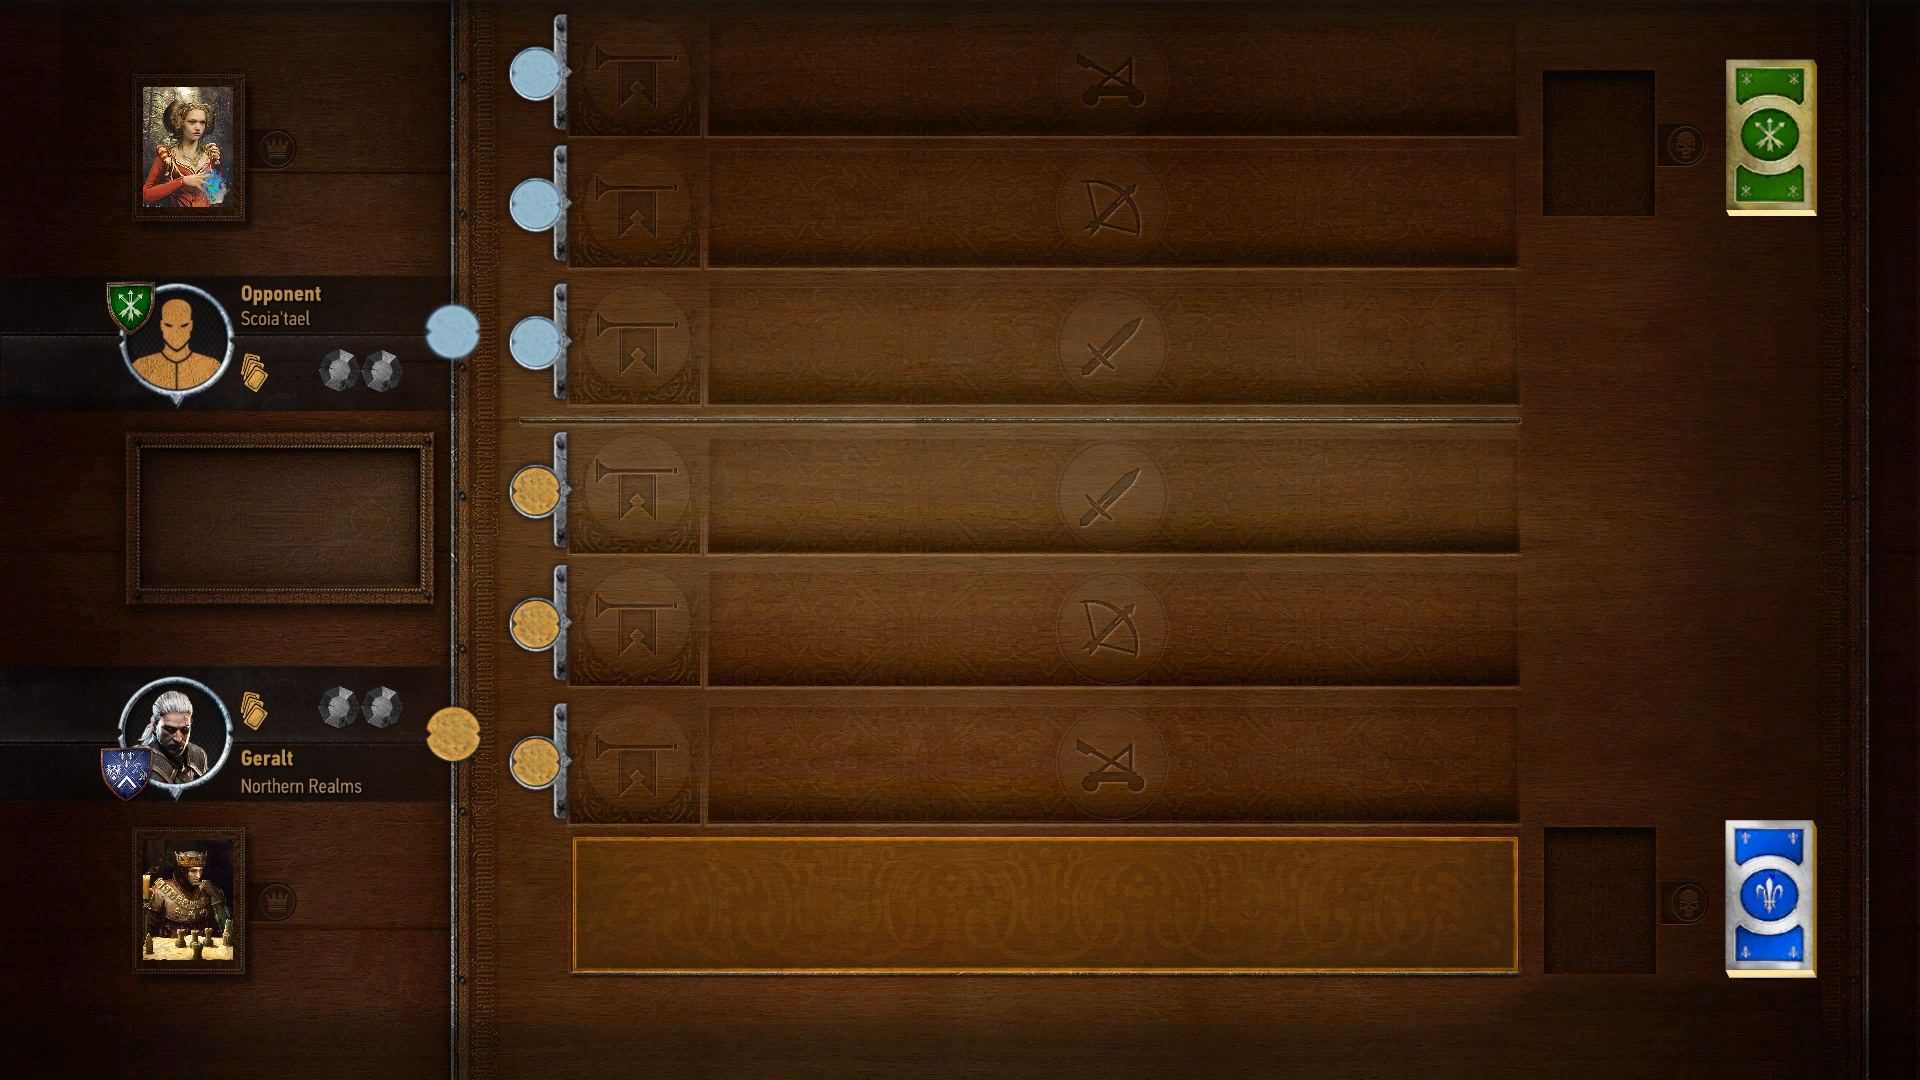
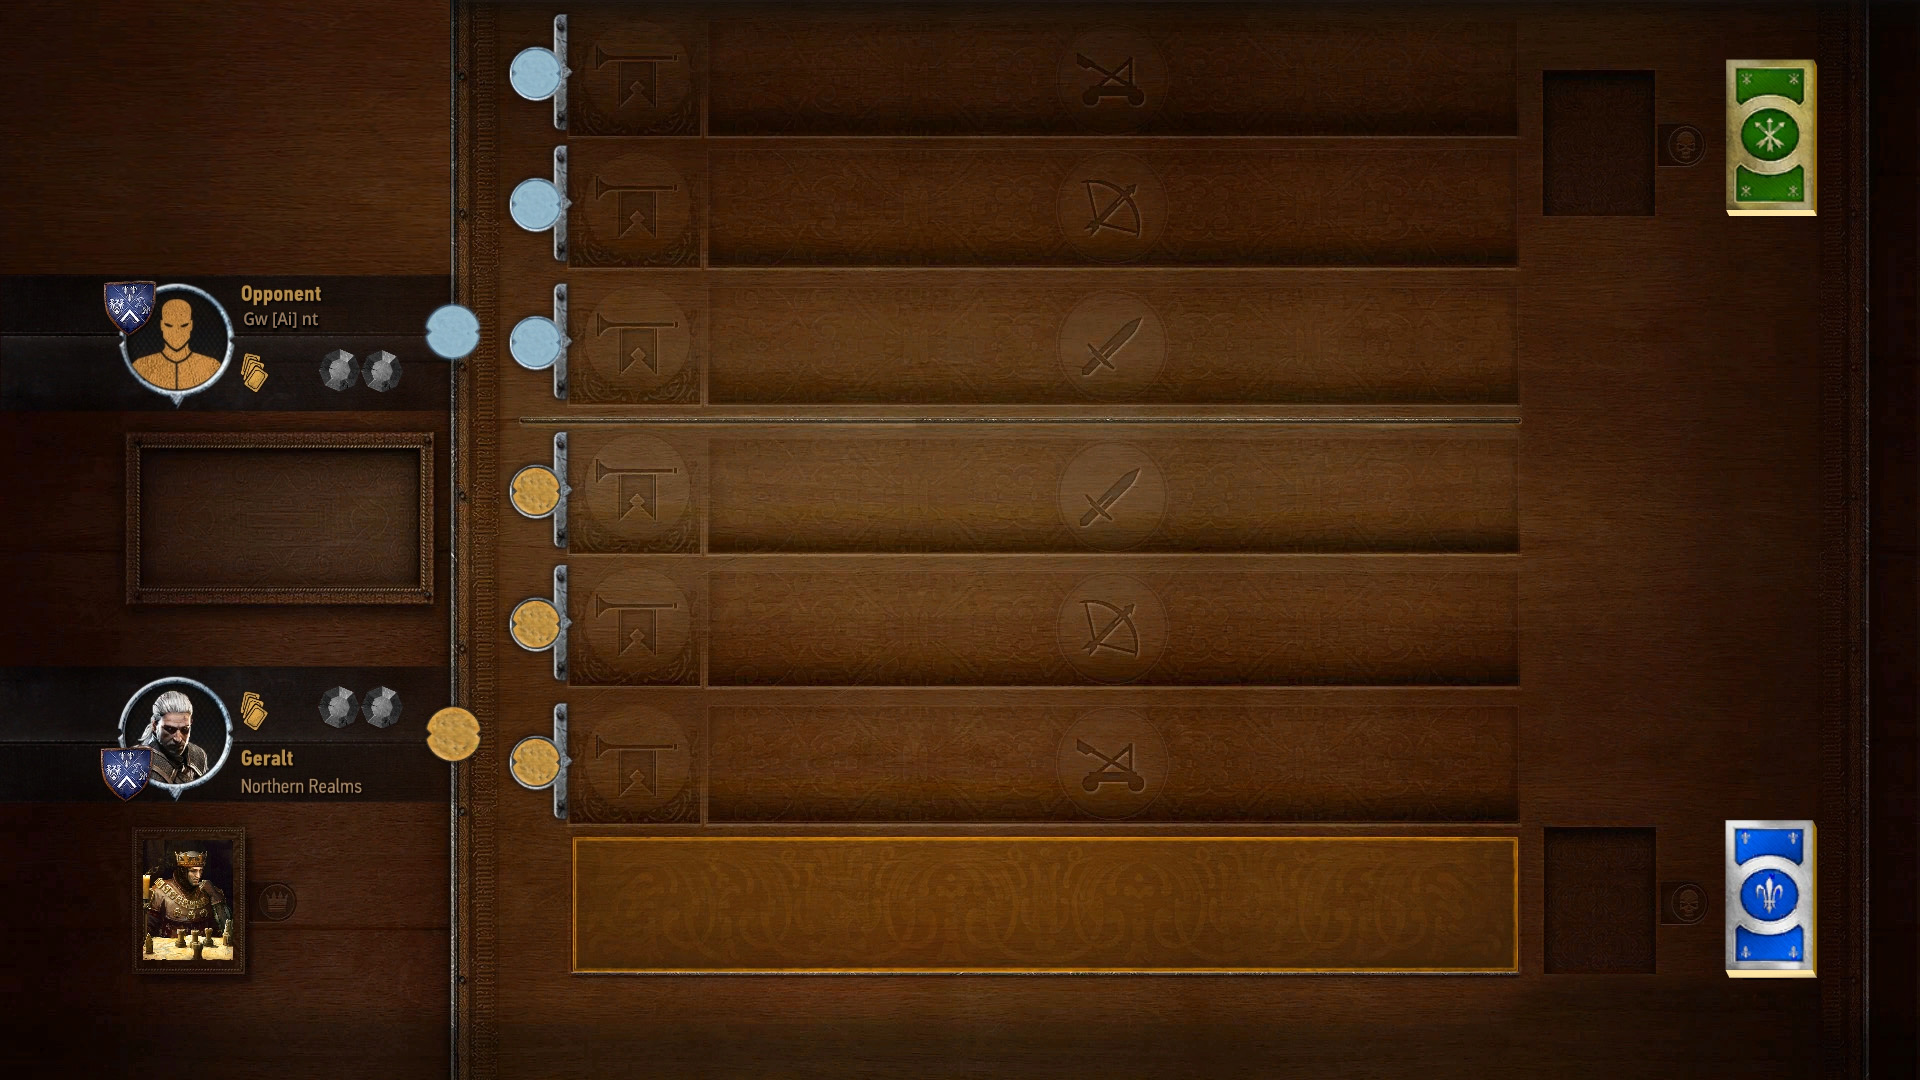
copyright, updated notifications

diff --git a/web/src/services/GameService.js b/web/src/services/GameService.js
@@ -18,18 +18,20 @@ const parseGame = (game) => {
     });
     store.dispatch('setPlayerHand', playerCards);
 
-    let currPlayer = '';
+    let currPlayer = '', plural = '';
     switch (game.current_player) {
         default:
         case 0:
-            currPlayer = 'Player';
+            currPlayer = 'You';
+            plural = 'r';
             break;
         case 1:
-            currPlayer = 'Gwent.AI';
+            currPlayer = 'Gw[Ai]nt';
+            plural = '\'s';
             break;
     }
 
-    return currPlayer;
+    return { currPlayer, plural };
 };
 
 const GameService = {
@@ -37,16 +39,17 @@ const GameService = {
         return DataService.startGame().then(response => {
             const game = response.data;
 
-            const currPlayer = parseGame(game);
+            const info = parseGame(game);
             store.dispatch('setGameId', game.id);
 
-            return NotificationService.setNotification(currPlayer + ' will go first').then(() => {
+            return NotificationService.setNotification(info.currPlayer + ' will go first').then(() => {
                 if (game.current_player === 1) {
                     return GameService.aiTurn().then(_response => {
                         const game = _response.data;
-                        const currPlayer = parseGame(game);
+                        const info = parseGame(game);
+                        const player = info.currPlayer + '' + info.plural;
 
-                        store.dispatch('setNotification', currPlayer + '\'s turn');
+                        return NotificationService.setNotification(player + ' turn');
                     });
                 }
             });
@@ -60,14 +63,16 @@ const GameService = {
 
         return DataService.playCard(gameId, cardId).then(response => {
             const game = response.data;
-            const currPlayer = parseGame(game);
+            const info = parseGame(game);
+            const player = info.currPlayer + '' + info.plural;
 
-            return NotificationService.setNotification(currPlayer + '\'s turn').then(() => {
+            return NotificationService.setNotification(player + ' turn').then(() => {
                 GameService.aiTurn().then(_response => {
                     const game = _response.data;
-                    const currPlayer = parseGame(game);
+                    const info = parseGame(game);
+                    const player = info.currPlayer + '' + info.plural;
 
-                    store.dispatch('setNotification', currPlayer + '\'s turn');
+                    return NotificationService.setNotification(player + ' turn');
                 });
             });
         }).catch(err => {
@@ -80,11 +85,10 @@ const GameService = {
 
         return DataService.aiTurn(gameId).then(response => {
             const game = response.data;
-            const currPlayer = parseGame(game);
+            const info = parseGame(game);
+            const player = info.currPlayer + '' + info.plural;
 
-            return NotificationService.setNotification(currPlayer + '\'s turn').then(() => {
-
-            });
+            return NotificationService.setNotification(player + ' turn');
         }).catch(err => {
             console.log(err);
         });

diff --git a/web/src/components/Copyright.vue b/web/src/components/Copyright.vue
@@ -1,0 +1,43 @@
+<template>
+    <div class="copyright">
+        <p>CD PROJEKT®, The Witcher®, GWENT® are registered trademarks of CD PROJEKT Capital Group. GWENT game © CD PROJEKT S.A. All rights reserved. Developed by CD PROJEKT S.A. GWENT game is set in the universe created by Andrzej Sapkowski. All other copyrights and trademarks are the property of their respective owners.</p>
+
+        <p>This website was created solely for educational purposes, all code is open source and available for free.</p>
+
+        <p><a href="https://github.com/tdanielcox/gwent">View the source code on Github</a></p>
+    </div>
+</template>
+
+<style lang="scss">
+    .copyright {
+        position: absolute;
+        top: 24px;
+        left: 22px;
+        width: 400px;
+        height: 144px;
+
+        p {
+            font-size: 1rem;
+            color: #FFF;
+            margin-bottom: 10px;
+        }
+
+        a {
+            color: #FFF;
+        }
+    }
+</style>
+
+<script>
+    export default {
+        props: [],
+        computed: {
+        },
+        methods: {
+
+        },
+        mounted() {
+
+        }
+    }
+</script>

diff --git a/web/src/services/NotificationService.js b/web/src/services/NotificationService.js
@@ -1,19 +1,20 @@
 import store from '../vuex/store';
 
 const NotificationService = {
-    setNotification(notification) {
+    setNotification(notification, timeout) {
+        timeout = timeout || 2600;
         return new Promise((resolve, reject) => {
             store.dispatch('setNotification', notification);
             store.dispatch('setNotificationVisible', true);
 
             setTimeout(() => {
                 store.dispatch('setNotificationVisible', false);
-            }, 2600);
+            }, timeout - 400);
 
             setTimeout(() => {
                 store.dispatch('setNotification', null);
                 resolve();
-            }, 3000);
+            }, timeout);
         });
     }
 };

diff --git a/web/src/components/Game.vue b/web/src/components/Game.vue
@@ -2,6 +2,7 @@
     <div class="game">
         <board></board>
         <notification></notification>
+        <copyright></copyright>
     </div>
 </template>
 
@@ -17,12 +18,14 @@
     import GameService from '../services/GameService.js';
     import Board from './Board';
     import Notification from './Notification';
+    import Copyright from './Copyright';
 
     export default {
         props: [],
         components: {
             Board,
-            Notification
+            Notification,
+            Copyright
         },
         data() {
             return {
